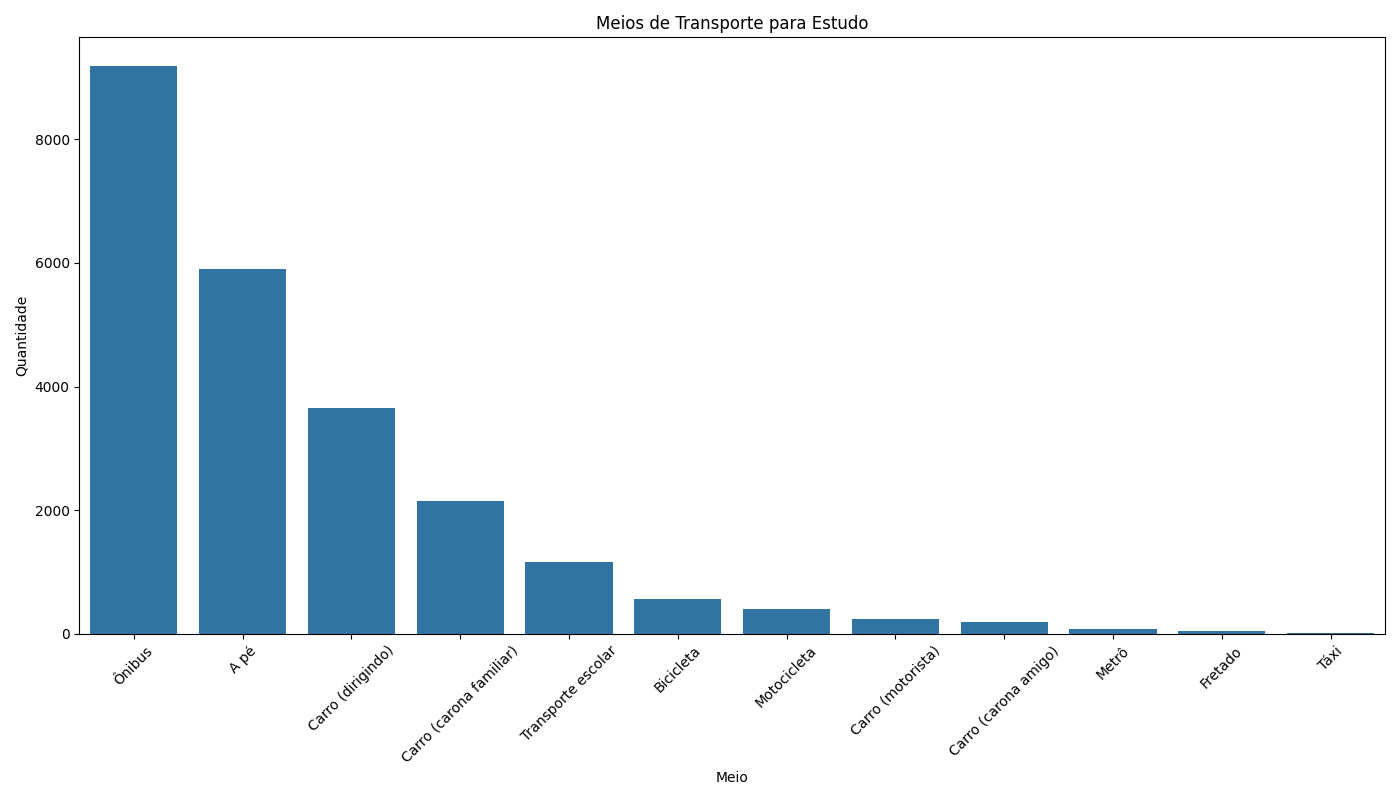
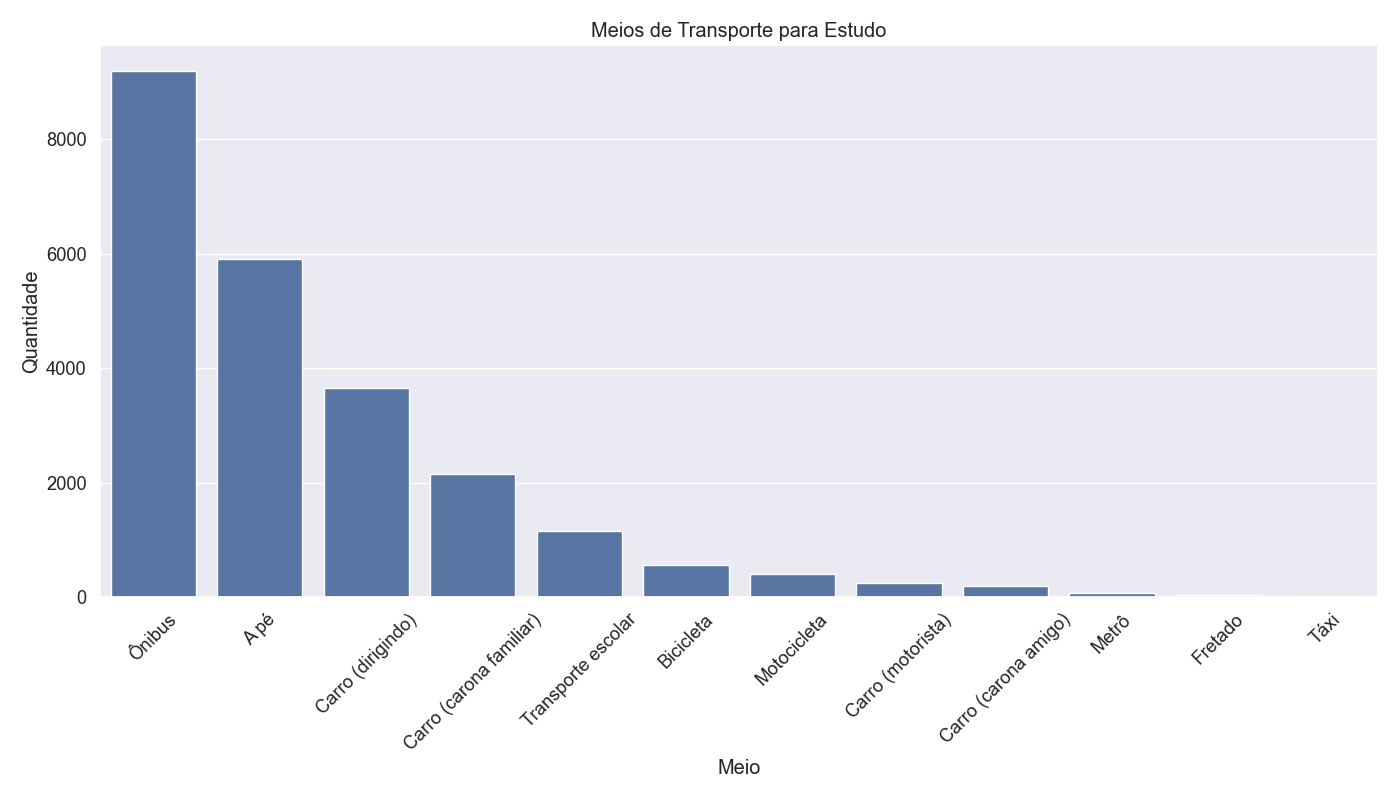
0.0.1

diff --git a/analise_od_recife.py b/analise_od_recife.py
@@ -193,8 +193,11 @@ def analisar_mobilidade(df):
         
         # Gráfico de mobilidade reduzida
         plt.figure()
-        mobilidade_count.plot(kind='bar')
+        bars = plt.bar(mobilidade_count.index, mobilidade_count.values)
         plt.title('Pessoas com Mobilidade Reduzida')
+        plt.xlabel('Situação')
+        plt.ylabel('Quantidade')
+        plt.xticks(rotation=0)
         plt.tight_layout()
         plt.savefig('mobilidade_reduzida.png')
         plt.close()
@@ -229,104 +232,91 @@ def analisar_transportes(df):
     """
     print("\n===== ANÁLISE DE TRANSPORTES =====")
     
-    # Simplificando valores para meio_transporte_trab
-    # Para fins de análise, consideramos apenas transportes únicos (não combinações)
+    # Dicionário para mapeamento de transporte
+    transporte_map = {
+        1: 'A pé', 2: 'Bicicleta', 3: 'Ônibus', 4: 'Metrô',
+        5: 'Carro (dirigindo)', 6: 'Carro (carona familiar)',
+        7: 'Carro (carona amigo)', 8: 'Carro (motorista)',
+        9: 'Motocicleta', 10: 'Transporte escolar',
+        11: 'Táxi', 12: 'Fretado'
+    }
+    
+    # Contagem para trabalho
     transportes_trab = {}
+    if 'meio_transporte_trab' in df.columns:
+        work_transport = df[df['trabalha'] == 1]['meio_transporte_trab'].dropna()
+        
+        for valor in work_transport:
+            if isinstance(valor, (int, float)) and valor in transporte_map:
+                meio = transporte_map[valor]
+                transportes_trab[meio] = transportes_trab.get(meio, 0) + 1
+            elif isinstance(valor, str):
+                try:
+                    primeiro_valor = int(valor.split(',')[0].strip())
+                    if primeiro_valor in transporte_map:
+                        meio = transporte_map[primeiro_valor]
+                        transportes_trab[meio] = transportes_trab.get(meio, 0) + 1
+                except:
+                    continue
     
-    for valor in df['meio_transporte_trab'].dropna().unique():
-        if isinstance(valor, (int, float)) and valor in range(1, 13):
-            if valor == 1:
-                transportes_trab['A pé'] = len(df[df['meio_transporte_trab'] == 1])
-            elif valor == 2:
-                transportes_trab['Bicicleta'] = len(df[df['meio_transporte_trab'] == 2])
-            elif valor == 3:
-                transportes_trab['Ônibus'] = len(df[df['meio_transporte_trab'] == 3])
-            elif valor == 4:
-                transportes_trab['Metrô'] = len(df[df['meio_transporte_trab'] == 4])
-            elif valor == 5:
-                transportes_trab['Carro (dirigindo)'] = len(df[df['meio_transporte_trab'] == 5])
-            elif valor == 6:
-                transportes_trab['Carro (carona familiar)'] = len(df[df['meio_transporte_trab'] == 6])
-            elif valor == 7:
-                transportes_trab['Carro (carona amigo)'] = len(df[df['meio_transporte_trab'] == 7])
-            elif valor == 8:
-                transportes_trab['Carro (motorista)'] = len(df[df['meio_transporte_trab'] == 8])
-            elif valor == 9:
-                transportes_trab['Motocicleta'] = len(df[df['meio_transporte_trab'] == 9])
-            elif valor == 10:
-                transportes_trab['Transporte escolar'] = len(df[df['meio_transporte_trab'] == 10])
-            elif valor == 11:
-                transportes_trab['Táxi'] = len(df[df['meio_transporte_trab'] == 11])
-            elif valor == 12:
-                transportes_trab['Fretado'] = len(df[df['meio_transporte_trab'] == 12])
-    
-    # Fazendo o mesmo para transporte para estudo
+    # Contagem para estudo
     transportes_estudo = {}
-    
-    for valor in df['transporte_aula'].dropna().unique():
-        if isinstance(valor, (int, float)) and valor in range(1, 13):
-            if valor == 1:
-                transportes_estudo['A pé'] = len(df[df['transporte_aula'] == 1])
-            elif valor == 2:
-                transportes_estudo['Bicicleta'] = len(df[df['transporte_aula'] == 2])
-            elif valor == 3:
-                transportes_estudo['Ônibus'] = len(df[df['transporte_aula'] == 3])
-            elif valor == 4:
-                transportes_estudo['Metrô'] = len(df[df['transporte_aula'] == 4])
-            elif valor == 5:
-                transportes_estudo['Carro (dirigindo)'] = len(df[df['transporte_aula'] == 5])
-            elif valor == 6:
-                transportes_estudo['Carro (carona familiar)'] = len(df[df['transporte_aula'] == 6])
-            elif valor == 7:
-                transportes_estudo['Carro (carona amigo)'] = len(df[df['transporte_aula'] == 7])
-            elif valor == 8:
-                transportes_estudo['Carro (motorista)'] = len(df[df['transporte_aula'] == 8])
-            elif valor == 9:
-                transportes_estudo['Motocicleta'] = len(df[df['transporte_aula'] == 9])
-            elif valor == 10:
-                transportes_estudo['Transporte escolar'] = len(df[df['transporte_aula'] == 10])
-            elif valor == 11:
-                transportes_estudo['Táxi'] = len(df[df['transporte_aula'] == 11])
-            elif valor == 12:
-                transportes_estudo['Fretado'] = len(df[df['transporte_aula'] == 12])
+    if 'transporte_aula' in df.columns:
+        study_transport = df[df['pesquisado_estuda'] == 1]['transporte_aula'].dropna()
+        
+        for valor in study_transport:
+            if isinstance(valor, (int, float)) and valor in transporte_map:
+                meio = transporte_map[valor]
+                transportes_estudo[meio] = transportes_estudo.get(meio, 0) + 1
+            elif isinstance(valor, str):
+                try:
+                    primeiro_valor = int(valor.split(',')[0].strip())
+                    if primeiro_valor in transporte_map:
+                        meio = transporte_map[primeiro_valor]
+                        transportes_estudo[meio] = transportes_estudo.get(meio, 0) + 1
+                except:
+                    continue
     
     # Exibindo resultados
-    print("\nMeios de Transporte para o Trabalho:")
-    for modo, quantidade in sorted(transportes_trab.items(), key=lambda x: x[1], reverse=True):
-        print(f"{modo}: {quantidade} ({quantidade/trabalham*100:.2f}%)")
+    if transportes_trab:
+        print("\nMeios de Transporte para o Trabalho:")
+        for modo, quantidade in sorted(transportes_trab.items(), key=lambda x: x[1], reverse=True):
+            print(f"{modo}: {quantidade} ({quantidade/trabalham*100:.2f}%)")
     
-    print("\nMeios de Transporte para Estudo:")
-    for modo, quantidade in sorted(transportes_estudo.items(), key=lambda x: x[1], reverse=True):
-        print(f"{modo}: {quantidade} ({quantidade/estudam*100:.2f}%)")
-    
-    # Criando dataframes para visualização
-    transportes_trab_df = pd.DataFrame({
-        'Meio': list(transportes_trab.keys()),
-        'Quantidade': list(transportes_trab.values())
-    }).sort_values('Quantidade', ascending=False)
-    
-    transportes_estudo_df = pd.DataFrame({
-        'Meio': list(transportes_estudo.keys()),
-        'Quantidade': list(transportes_estudo.values())
-    }).sort_values('Quantidade', ascending=False)
+    if transportes_estudo:
+        print("\nMeios de Transporte para Estudo:")
+        for modo, quantidade in sorted(transportes_estudo.items(), key=lambda x: x[1], reverse=True):
+            print(f"{modo}: {quantidade} ({quantidade/estudam*100:.2f}%)")
     
     # Gráfico para meios de transporte para trabalho
-    plt.figure(figsize=(14, 8))
-    sns.barplot(data=transportes_trab_df, x='Meio', y='Quantidade')
-    plt.title('Meios de Transporte para o Trabalho')
-    plt.xticks(rotation=45)
-    plt.tight_layout()
-    plt.savefig('transportes_trabalho.png')
-    plt.close()
+    if transportes_trab:
+        transportes_trab_df = pd.DataFrame({
+            'Meio': list(transportes_trab.keys()),
+            'Quantidade': list(transportes_trab.values())
+        }).sort_values('Quantidade', ascending=False)
+        
+        plt.figure(figsize=(14, 8))
+        sns.barplot(data=transportes_trab_df, x='Meio', y='Quantidade')
+        plt.title('Meios de Transporte para o Trabalho')
+        plt.xticks(rotation=45)
+        plt.tight_layout()
+        plt.savefig('transportes_trabalho.png')
+        plt.close()
     
     # Gráfico para meios de transporte para estudo
-    plt.figure(figsize=(14, 8))
-    sns.barplot(data=transportes_estudo_df, x='Meio', y='Quantidade')
-    plt.title('Meios de Transporte para Estudo')
-    plt.xticks(rotation=45)
-    plt.tight_layout()
-    plt.savefig('transportes_estudo.png')
-    plt.close()
+    if transportes_estudo:
+        transportes_estudo_df = pd.DataFrame({
+            'Meio': list(transportes_estudo.keys()),
+            'Quantidade': list(transportes_estudo.values())
+        }).sort_values('Quantidade', ascending=False)
+        
+        plt.figure(figsize=(14, 8))
+        sns.barplot(data=transportes_estudo_df, x='Meio', y='Quantidade')
+        plt.title('Meios de Transporte para Estudo')
+        plt.xticks(rotation=45)
+        plt.tight_layout()
+        plt.savefig('transportes_estudo.png')
+        plt.close()
 
 # Função para analisar uso de aplicativos de táxi e terminais de integração
 def analisar_tecnologia(df):
